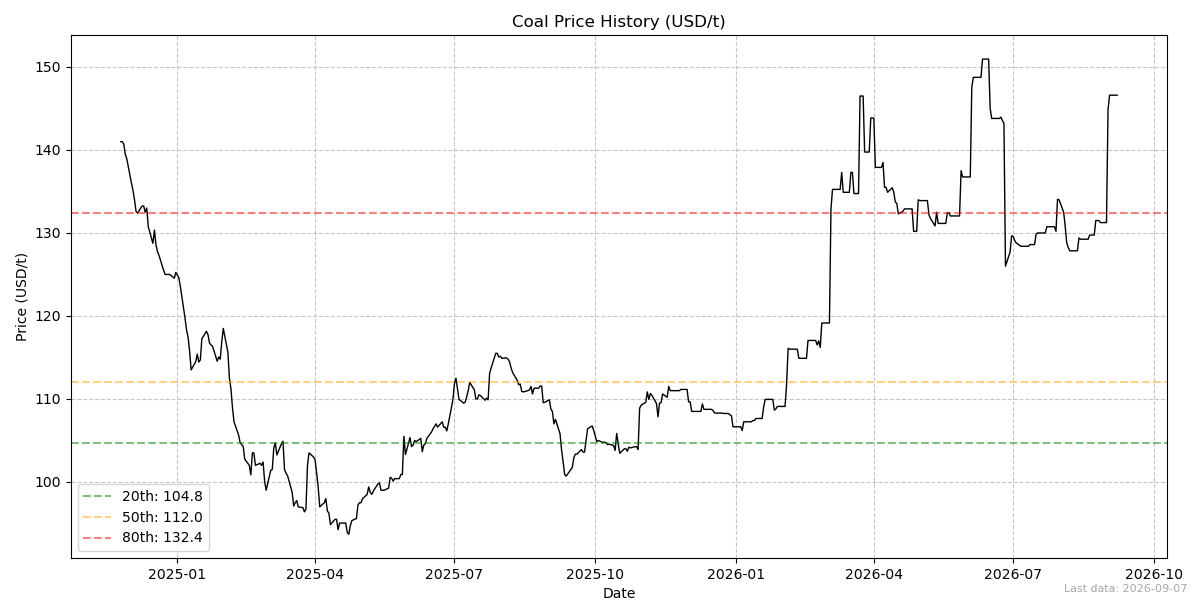
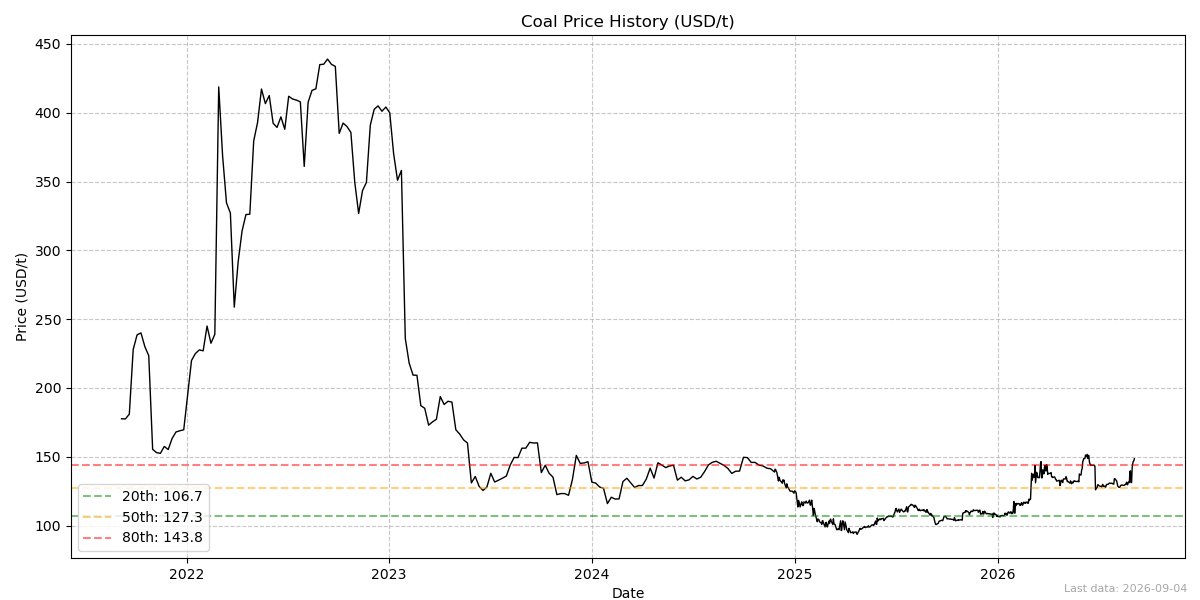
Add lithium and cobalt price histories

diff --git a/js/chart-reader.js b/js/chart-reader.js
@@ -36,6 +36,8 @@
     short_term_debt_cycle: ["The short-term debt cycle", "Use this cycle diagram as a framework for interpreting the accompanying economic indicators."],
     real_estate_cycle: ["The real estate cycle", "Use the illustrated phases to place housing-market observations in context."],
     coal_price_history: ["Coal prices over time", "Compare recent coal prices with the historical price path shown."],
+    lithium_price_history: ["Lithium carbonate prices over time", "Follow China battery-grade lithium carbonate prices in CNY per tonne and compare the latest level with the historical percentile bands."],
+    cobalt_price_history: ["Cobalt prices over time", "Follow cobalt prices in USD per tonne and compare the latest level with the historical percentile bands."],
     oil_price_quantiles: ["Oil prices in historical context", "Compare the latest oil-price observation with its historical distribution."],
     top_stocks_superinvestors_count: ["The stocks held by the most investors", "Compare the number of tracked investors holding each stock.", "Investor count"],
     top_stocks_superinvestors_weighted_top_position: ["Shared conviction in top positions", "Compare the ranking weighted by investors’ top positions.", "Top positions"],
@@ -91,7 +93,7 @@
       figure.prepend(caption);
       img.alt = title;
       img.dataset.caption = title;
-      const size = dimensions[key];
+      const size = dimensions[key] || (key.endsWith("_price_history") ? [1200, 600] : undefined);
       if (size) {
         img.width = size[0];
         img.height = size[1];

diff --git a/js/macro.js b/js/macro.js
@@ -15,6 +15,9 @@ const DEFAULT_IMAGES = [
   "vix_quantiles.png",
   "unemployment_rate_US_quantiles.png",
   "10Y_3M_treasury_spread_quantiles.png",
+  "coal_price_history.png",
+  "lithium_price_history.png",
+  "cobalt_price_history.png",
   "copper_gold_ratio_quantiles.png",
   "equity_risk_premium_quantiles.png",
   "high_yield_quantiles.png",
@@ -22,7 +25,6 @@ const DEFAULT_IMAGES = [
   "housing_price_index_and_debt_service.png",
   "short_term_debt_cycle.png",
   "real_estate_cycle.png",
-  "coal_price_history.png",
   "oil_price_quantiles.png",
 ];
 
@@ -47,6 +49,8 @@ const DEFAULT_TAGS = {
   "short_term_debt_cycle.png": ["overview", "debt_cycle"],
   "real_estate_cycle.png": ["overview", "housing"],
   "coal_price_history.png": ["overview", "commodities"],
+  "lithium_price_history.png": ["overview", "commodities"],
+  "cobalt_price_history.png": ["overview", "commodities"],
   "oil_price_quantiles.png": ["overview", "commodities"],
 };
 

diff --git a/macro.html b/macro.html
@@ -74,8 +74,8 @@
       <div id="lightbox-caption" class="lightbox-caption"></div>
     </div>
 
-    <script src="js/chart-reader.js?v=20260906c" defer></script>
+    <script src="js/chart-reader.js?v=20260906d" defer></script>
     <script src="js/nav.js?v=20260906c" defer></script>
-    <script src="js/macro.js?v=20260906c" defer></script>
+    <script src="js/macro.js?v=20260906d" defer></script>
   </body>
 </html>
